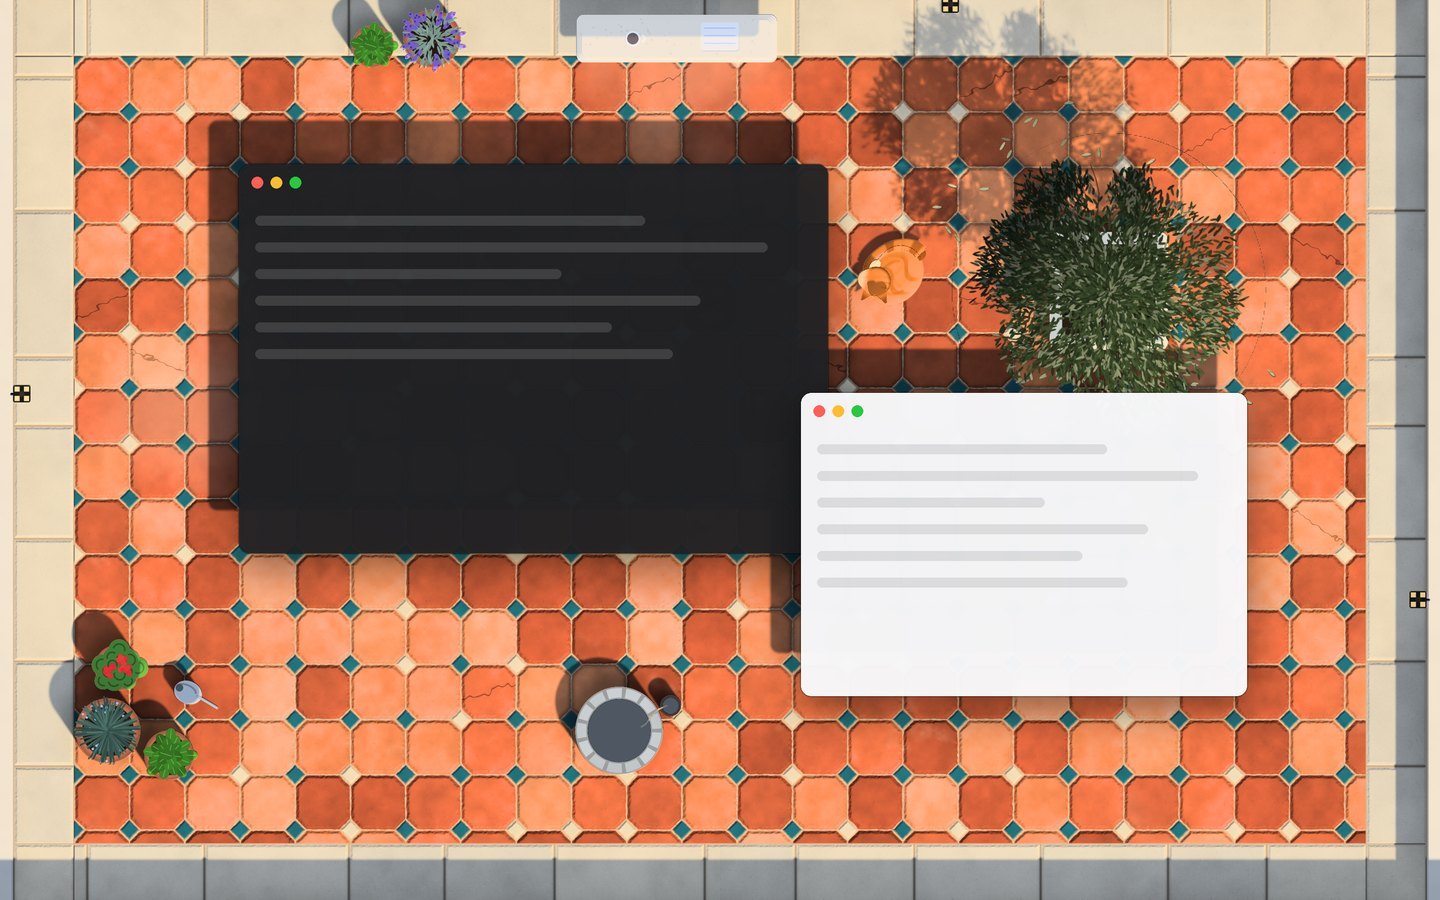
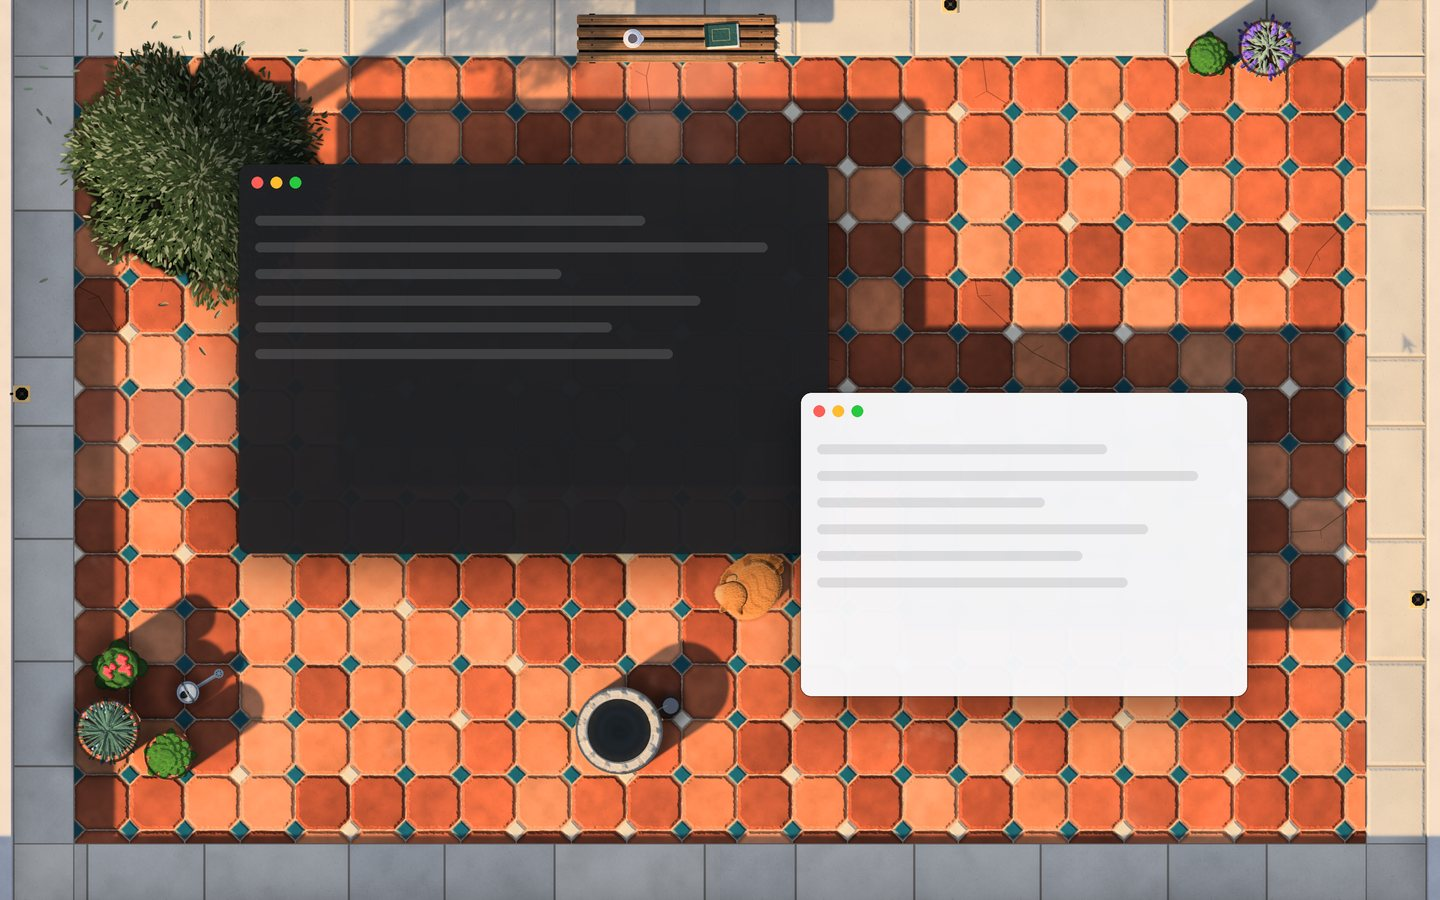
1.5.0 notes, Courtyard's thumbnail and site picture as it looks now; fewer, lighter cracks
The changelog describes the yard as it ended up (terracotta octagons, the olive in the corner, the bench, shadows on
everything, the pointer's shadow), Stage Manager on every wall, and the keyboard and full-screen fixes.

diff --git a/themes/courtyard.html b/themes/courtyard.html
@@ -431,11 +431,11 @@ void main() {
     cT = mix(cT, vec3(.88, .84, .78), .22 * smoothstep(.72, .92, fbm(p * .02 + 7.)));    // salt bloom
     cT *= 1. - .12 * (1. - smoothstep(1., 6., -dOct));                                     // burnt rims
     // a few cracked tiles: a hairline that kinks once and sends off a short branch, stopping short of the joints
-    if (h21(cell + 9.) < .07) { float a0 = h21(cell + 4.) * 6.283, a1 = a0 + 2.2 + h21(cell + 6.) * 1.8;
+    if (h21(cell + 9.) < .045) { float a0 = h21(cell + 4.) * 6.283, a1 = a0 + 2.2 + h21(cell + 6.) * 1.8;
       vec2 A = vec2(cos(a0), sin(a0)) * uTile * .55, Bk = (vec2(h21(cell + 8.), h21(cell + 10.)) - .5) * uTile * .35, C = vec2(cos(a1), sin(a1)) * uTile * .55;
       vec2 Dn = Bk + vec2(cos(a0 + 1.9), sin(a0 + 1.9)) * uTile * (.12 + .14 * h21(cell + 12.));
       float cr = min(min(segDist(l, A, Bk), segDist(l, Bk, C)), segDist(l, Bk, Dn) + .2) + .3 * (vn(l * 1.3 + cell) - .5);
-      cT *= 1. - .32 * (1. - smoothstep(.2, .85, cr)) * smoothstep(.5, 3., -dOct); }
+      cT *= 1. - .24 * (1. - smoothstep(.2, .85, cr)) * smoothstep(.5, 3., -dOct); }
     float dome = 1. - clamp(length(l) / (uTile * .62), 0., 1.);                           // the face a little domed, its edges worn round
     float hT = .615 + .03 * dome + .008 * mid - .24 * (1. - smoothstep(0., 3. + 1.4 * vn(p * .5 + cell), -dOct - g * .5))
       - .008 * smoothstep(.88, .98, vn(p * .7 + cell * 3.));                               // a little soft pitting

diff --git a/CHANGELOG.md b/CHANGELOG.md
@@ -4,13 +4,29 @@
 
 ### A new wall: Courtyard
 - A sunlit Mediterranean courtyard seen from above, and your windows cast real shadows in it: from the actual sun at
-  your location, long and golden in the morning, short at noon, stretching amber towards evening. At night the moon
-  takes over, with warm lantern light along the walls.
-- Pale limestone flags with sunken joints that catch the light, an olive tree whose dappled shade sways, pots of
-  rosemary, lavender and geranium, a bench, an old well, and a cat that naps in whatever sun is left, getting up and
-  moving when the shade reaches it.
-- Light on your battery: the sun moves slowly, so the yard is redrawn only when it or your windows move; at night it
-  rests completely.
+  your location, long and golden in the morning, short at noon, stretching amber towards evening, then a slow dusk.
+  At night the moon takes over, with warm lantern light pooling along the walls.
+- Terracotta octagons with little glazed squares, set in recessed joints that catch the light at a low sun; an olive
+  tree in the corner whose dappled shade sways; pots of rosemary, lavender, geranium and basil; a wooden bench with a
+  cup of tea and a book; an old well; and a ginger cat that naps in whatever sun is left, getting up and moving when
+  the shade reaches it.
+- Shadows fall on everything: the floor, the pots, the leaves of the olive. They keep up with a window you drag, and
+  come and go with windows you open and close. Your pointer casts one too.
+- Light on your battery: the sun moves slowly, so the yard is redrawn only where something moves; at night it rests.
+
+### Stage Manager, as you see it
+- Every wall now meets Stage Manager's strip as it's drawn: each card turned in perspective, each app's icon at its
+  real size (they were plain boxes, the icons twice too big). Snowfall settles snow on each card's sloped top; Koi Reef
+  grows a small reef round each card; Garden Plan's bed follows the cards, flowering in the gaps; Model Railway keeps
+  its villages out from under them; Gallery's niche fits them and each card casts its own shadow; Courtyard, Celestial
+  Atlas, Estate, Ink Map, Meadow, Beach and Wind Map follow their turned shapes too.
+- The pointer counts as over the wallpaper in the empty corners round a card or an icon (Lava Lamp and Wind Tunnel
+  stopped following it there).
+
+### Fixes
+- A window opened or closed from the keyboard (⌘N, ⌘W) reaches the walls at once; it could take a quarter of a second.
+- Full-screen apps no longer reshape the walls: switching back to the desktop from one made every wall lay itself out
+  round a giant window as it slid away.
 
 ## [1.4.3]
 
